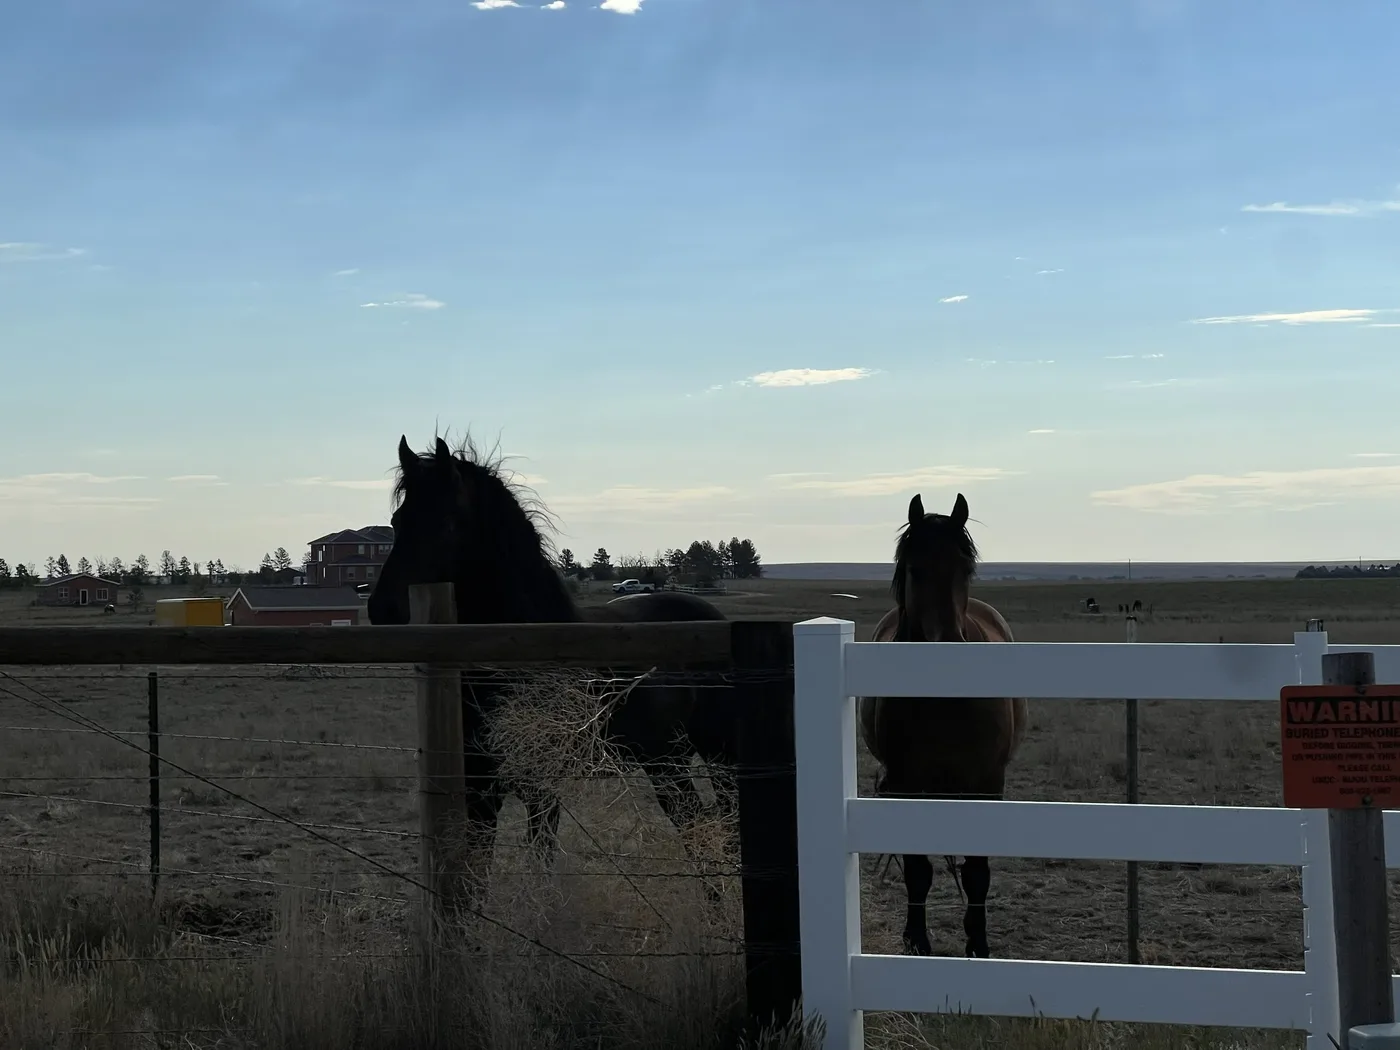
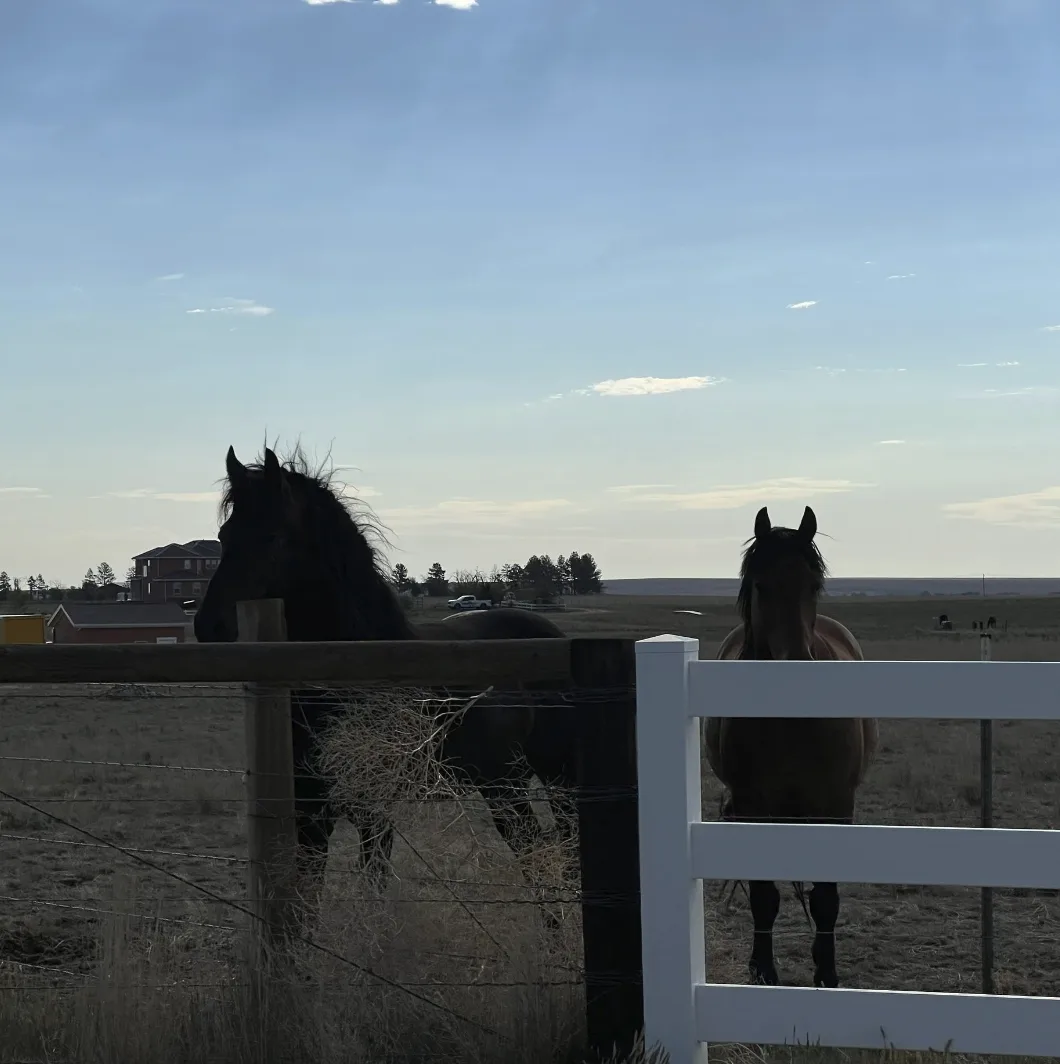
feat(blog): add 3 more matched blog images + fix assignments
- quilting-surprise.webp → mystery-surprises-question-for-you (exact match)
- coffee-spill.webp → sugar-spice-are-you-kidding-me (coffee on staircase)
- horses-fence.webp → better quality photo replaces previous version
- Reassign virtual-open-house → day-5 (35 women open house event)
- Reassign man-at-beach → falling-in-love-with-this-house

Claude-Session: https://claude.ai/code/session_01AN4QuHKFK3LvPHS3VXJ5fQ

diff --git a/app/blog/posts.ts b/app/blog/posts.ts
@@ -71,8 +71,8 @@ export const posts: BlogPost[] = [
     date: "October 15, 2026",
     author: "Melissa McGinness",
     excerpt: "A quilting surprise is coming, stories behind the artwork, and Melissa asks the Outcrop community for input on what comes next.",
-    image: "/images/blog/virtual-open-house.webp",
-    imageAlt: "Cookies and table settings set out as an open invitation to the Outcrop community",
+    image: "/images/blog/quilting-surprise.webp",
+    imageAlt: "New shelving installed in Outcrop Manor as a surprise for quilting groups",
     content: `
       <p>There's a lot happening at Outcrop Manor, and I wanted to share some of it — plus ask for your input on a few things we're deciding right now.</p>
       <h3>A quilting surprise</h3>
@@ -96,7 +96,8 @@ export const posts: BlogPost[] = [
     date: "September 26, 2026",
     author: "Melissa McGinness",
     excerpt: "The elevator broke mid-weekend, a workbench collapsed, and a fire alarm went off at midnight. Also: Chris played 90 minutes of soccer during radiation. Life is both.",
-    image: undefined,
+    image: "/images/blog/coffee-spill.webp",
+    imageAlt: "Coffee dripped down the Outcrop Manor staircase — one of those weeks",
     content: `
       <p>I spent way too long trying to title this post. Something warm and welcoming didn't feel right. A list of everything going wrong didn't either. Because the truth is — life is both. It's the sugar and the spice and the moments where you look up and say, are you kidding me?</p>
       <p>So here's an honest version of a recent Outcrop weekend.</p>
@@ -120,7 +121,8 @@ export const posts: BlogPost[] = [
     date: "August 10, 2026",
     author: "Melissa McGinness",
     excerpt: "Bookings are nearly full, contractors are quoting wildly different prices, and there may or may not be a mouse problem. Also: Ninja coffee machines are in.",
-    image: undefined,
+    image: "/images/blog/man-at-beach.webp",
+    imageAlt: "A quiet moment — the kind of reset that Outcrop Manor is built for",
     content: `
       <p>I know that sounds dramatic. But I'm starting to think Outcrop Manor has been waiting for someone to love it — and we're that someone.</p>
       <h3>Where bookings stand</h3>
@@ -166,8 +168,8 @@ export const posts: BlogPost[] = [
     date: "July 19, 2026",
     author: "Melissa McGinness",
     excerpt: "About 35 women toured an empty Outcrop Manor on sneak peek day. Most groups booked before they left.",
-    image: "/images/blog/man-at-beach.webp",
-    imageAlt: "Guests arriving and experiencing Outcrop Manor for the first time",
+    image: "/images/blog/virtual-open-house.webp",
+    imageAlt: "Cookies and table settings for the Outcrop Manor sneak peek open house",
     content: `
       <p>Today about 35 women came through to see Outcrop Manor before the first official retreat. The house was empty — no beds, no furniture in the event center yet — and still, most groups booked before they walked out the door.</p>
       <p>That meant everything to me.</p>
@@ -254,7 +256,7 @@ export const posts: BlogPost[] = [
     author: "Melissa McGinness",
     excerpt: "Construction started around 2006 but no one ever really lived here. Melissa and Athena cleaned the 1,600 sq ft event center by hand, and by the end of the day a quarter of the year was already booked.",
     image: "/images/blog/horses-fence.webp",
-    imageAlt: "Two horses at the fence of a neighboring property near Outcrop Manor",
+    imageAlt: "Two horses silhouetted against the open Colorado sky near Outcrop Manor",
     content: `
       <p>I insisted on cleaning the house myself — with Athena — before handing anything off to a professional crew. I needed to understand its condition firsthand. To know what we were actually working with.</p>
       <p>The 1,600 to 1,700 square foot event center alone took hours to sweep and mop. It's a big, beautiful space.</p>
